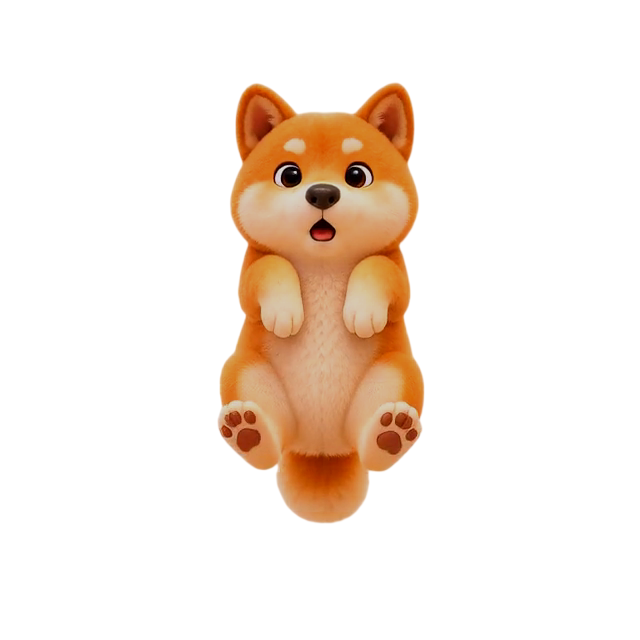
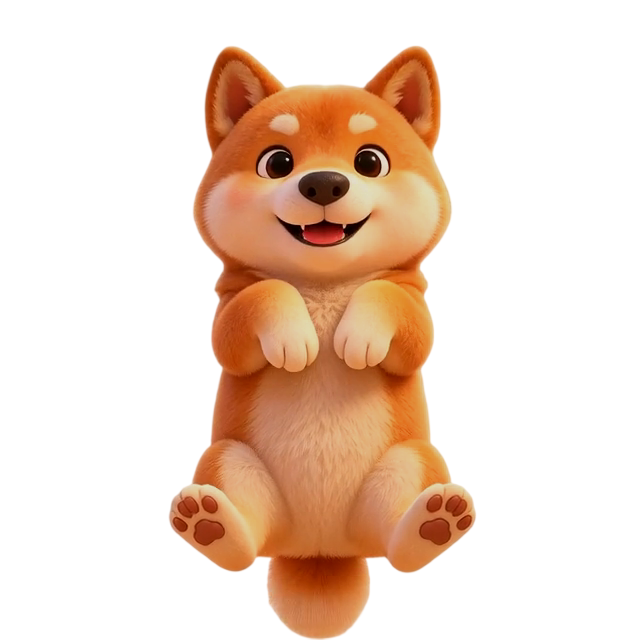
feat: swap grab animation to the swaying-kick coquette loop
New 16-frame sheet: held puppy sways, kicks its hind legs and smiles.
Per-sheet baked color gains retuned (sat x1.189, brightness x0.889);
scale 1.10 so the taller raised-paws silhouette fits the draw box.

Changed region(s): [[0.25, 0.0625, 0.75, 1.0]]

diff --git a/tools/import_lunch_meat_grab.py b/tools/import_lunch_meat_grab.py
@@ -19,8 +19,8 @@ ALPHA_THRESHOLD = 32
 # Match the idle animation's measured saturation/brightness so the held
 # silhouette reads as the same dog. (Measured: idle sat .644 val .784
 # vs raw grab sat .529 val .899.)
-SATURATION_GAIN = 1.296
-BRIGHTNESS_GAIN = 0.845
+SATURATION_GAIN = 1.189
+BRIGHTNESS_GAIN = 0.889
 
 
 def _dog_region(frame: Image.Image) -> numpy.ndarray:
